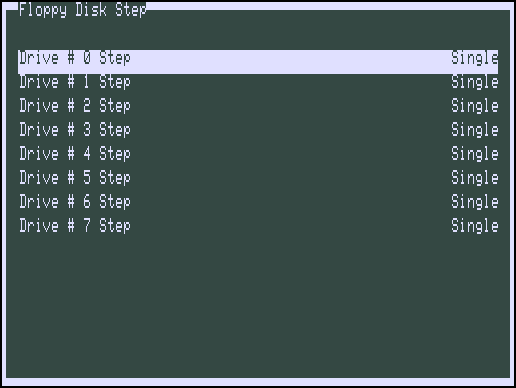
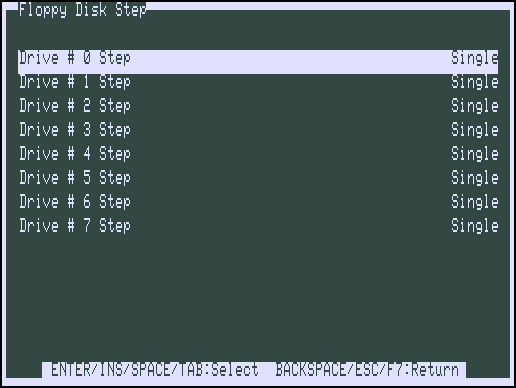
Update HTML documentation and images

Changed region(s): [[0.062, 0.9278, 0.9302, 0.9897]]

diff --git a/html/Features.html b/html/Features.html
@@ -57,6 +57,16 @@ or Model 4P mode. Some memory expansions like Alpha Technology's "SuperMem"
 are also supported. Floppy disks and hard disks are emulated using files to
 store the data; under Linux only, real floppy drives can be used.</p>
 
+<p>There is support for Model I and Model III clones: the function keys F1 -
+F4 are working for Dick Smith's "System 80 MK II" and the TCS "Genie II".
+Later TCS models, like "SpeedMaster" ("Genie IIs") and the "Genie IIIs", are
+also supported: these were just (highly) extended TRS-80 Model I clones and
+are detected by the emulator based on the ROM data. This also applies to the
+EG 3200 Genie III (EACA). Only for the TCS "SpeedMaster" (or "Genie IIs") the
+option <code>-speedup tcs</code> is required. The 480*192 HRG resolution for
+these machines - and the LNW80 - is supported. The extended 16 kB ROM of the
+brazilian Model III clones Prologica CP-300 and CP-500 also works.</p>
+
 <p>A printer is emulated by sending its output to a text file. A serial port
 is emulated using a host serial port. Cassette I/O is emulated using files to
 store the cassette data. Game sound and music output are also supported.
@@ -204,7 +214,7 @@ type <code>help</code> for more information.</p>
   </tr>
   <tr>
     <td><b>Control</b></td>
-    <td>TRS-80 Control key</td>
+    <td>TRS-80 Control key / TCS Genie IIs and SpeedMaster P1 key</td>
   </tr>
   <tr>
     <td><b>Page Up</b></td>
@@ -409,8 +419,9 @@ directory as the executable named <code>sdltrs.t8c</code>.</p>
 
 <p>SDLTRS provides a Text based menuing system that allows you to most aspect
 of emulator operation (more info on the <a href="TextGUI.html">Text GUI</a>
-page). The Text GUI is entered by pressing <b>F7</b> or <b>Alt-M</b>, and
-exited by using the <b>BackSpace</b> or <b>ESC</b> key.</p>
+page). The Text GUI is entered by pressing the <b>F7</b> key, <b>Alt-M</b> or
+<b>Alt-Comma</b> and exited by using the <b>F7</b> key again, <b>BackSpace</b>
+or <b>ESC</b>.</p>
 
 <p>A picture of the top level menu of the GUI is below:</p>
 
@@ -1090,12 +1101,12 @@ is not being used for Mouse emulation in the emulator.</p>
 
 <h3>Pasting Text:</h3>
 
-<p>To paste text from the host to the TRS-80, simple use the <b>Alt-V</b> or
-<b>Alt-Insert</b> shortcut. The pasted text is entered into the emulator as
-keystrokes. This should allow paste to work with any program that accepts
-keystroke input. As the keys must be entered at a normal typing pace, pasting
-a large buffer may take some time. Should you wish to interrupt a Paste in
-process, simply hit any key and the Paste will be terminated.</p>
+<p>To paste text from the host to the TRS-80, use the <b>Alt-V</b> shortcut.
+The pasted text is entered into the emulator as keystrokes. This should allow
+paste to work with any program that accepts keystroke input. As the keys must
+be entered at a normal typing pace, pasting a large buffer may take some time.
+Should you wish to interrupt a Paste in process, simply hit any key and the
+Paste will be terminated.</p>
 
 <h3>Copying Text:</h3>
 

diff --git a/html/TextGUI.html b/html/TextGUI.html
@@ -45,10 +45,10 @@ keys moves to the first or last menu item. Typing the first letter of a menu
 item marks it for selection. Pressing a number key from <b>0</b> to <b>9</b>
 jumps to the line in the menu. A menu item may be selected by pressing the
 <b>Enter</b>, <b>Insert</b>, <b>Space</b> or <b>Tab</b> key when the item is
-highlighted. Pressing <b>BackSpace</b> or <b>ESC</b> moves up a menu level
-(or exits the GUI if you are at the top level). Besides entering the GUI using
-<b>F7</b>, <b>Alt-Comma</b> or <b>Alt-M</b>, submenus may be entered by using
-the key shortcuts shown after the menu items.</p>
+highlighted. Pressing <b>F7</b>, <b>BackSpace</b> or <b>ESC</b> moves up a
+menu level (or exits the GUI if you are at the top level). Besides entering
+the GUI using <b>F7</b>, <b>Alt-M</b> or <b>Alt-Comma</b>, submenus may be
+entered by using the key shortcuts shown after the menu items.</p>
 
 <h2><a name="Floppy_Disk_Management"></a><u>Floppy Disk Management</u></h2>
 
@@ -253,7 +253,7 @@ but use this with CAUTION: overclocking the Z80 will result in all forms of
 for memory banking (by Martin Doppelbauer) on I/O-port <code>0xFE</code>.
 <b>LNW80</b> sets the CPU clock to 4 MHz and enables banking for the 480*192
 HRG in the lower 16 KB. Use <b>TCS SpeedMaster</b> for this enhanced Model I
-clone, running at 5.35 MHz, with 480*192 HRG and memory banking support.</p>
+clone running at 5.35 MHz, with 480*192 HRG and memory banking support.</p>
 
 <h3>Exatron Stringy Floppy:</h3>
 

diff --git a/html/Options.html b/html/Options.html
@@ -552,8 +552,9 @@ will be executed upon startup of the emulator.</p>
         F8 and FA data address marks is strictly observed on both writing and
         reading. This option is probably not useful unless you need to deal
         with Model I disks that use the distinction as part of a copy-
-        protection scheme. See also "Common File Formats for Emulated TRS-80
-        Floppy Disks", available at http://www.tim-mann.org/trs80/dskspec.html.
+        protection scheme. See also
+        <a href="https://www.tim-mann.org/trs80/dskspec.html">
+        Common File Formats for Emulated TRS-80 Floppy Disks</a>
     </td>
   </tr>
   <tr>

diff --git a/html/index.html b/html/index.html
@@ -67,6 +67,11 @@ is also a good resource.</p>
       personal use using the instructions and tools in this
       <a href="http://www.tim-mann.org/trs80/doc/rom4p.zip">article</a>,
       originally published in the Misosys Quarterly 1.2.</li>
+  <br>
+  <li>Lots of information about the EACA Video Genie, the EG 3200 Genie III and
+      the extended Model I clones TCS SpeedMaster/Genie IIs and Genie IIIs, can
+      be found on <a href="https://oldcomputers-ddns.org">oldcomputers-ddns.org</a>
+      in the EACA directory.</li>
 </ul>
 
 </body>

diff --git a/html/Credits.html b/html/Credits.html
@@ -83,6 +83,9 @@ over from XTRS and the MAME project:</h3>
       in 2020 which provided valuable information for the implementation.</li>
   <br>
   <li>George Phillips provided documentation for the Anitek MegaMem card.</li>
+  <br>
+  <li>Fritz Chwolka helped to improve the TCS Genie IIIs emulation by running
+      some tests on a real machine.</li>
 </ul>
 
 </body>
